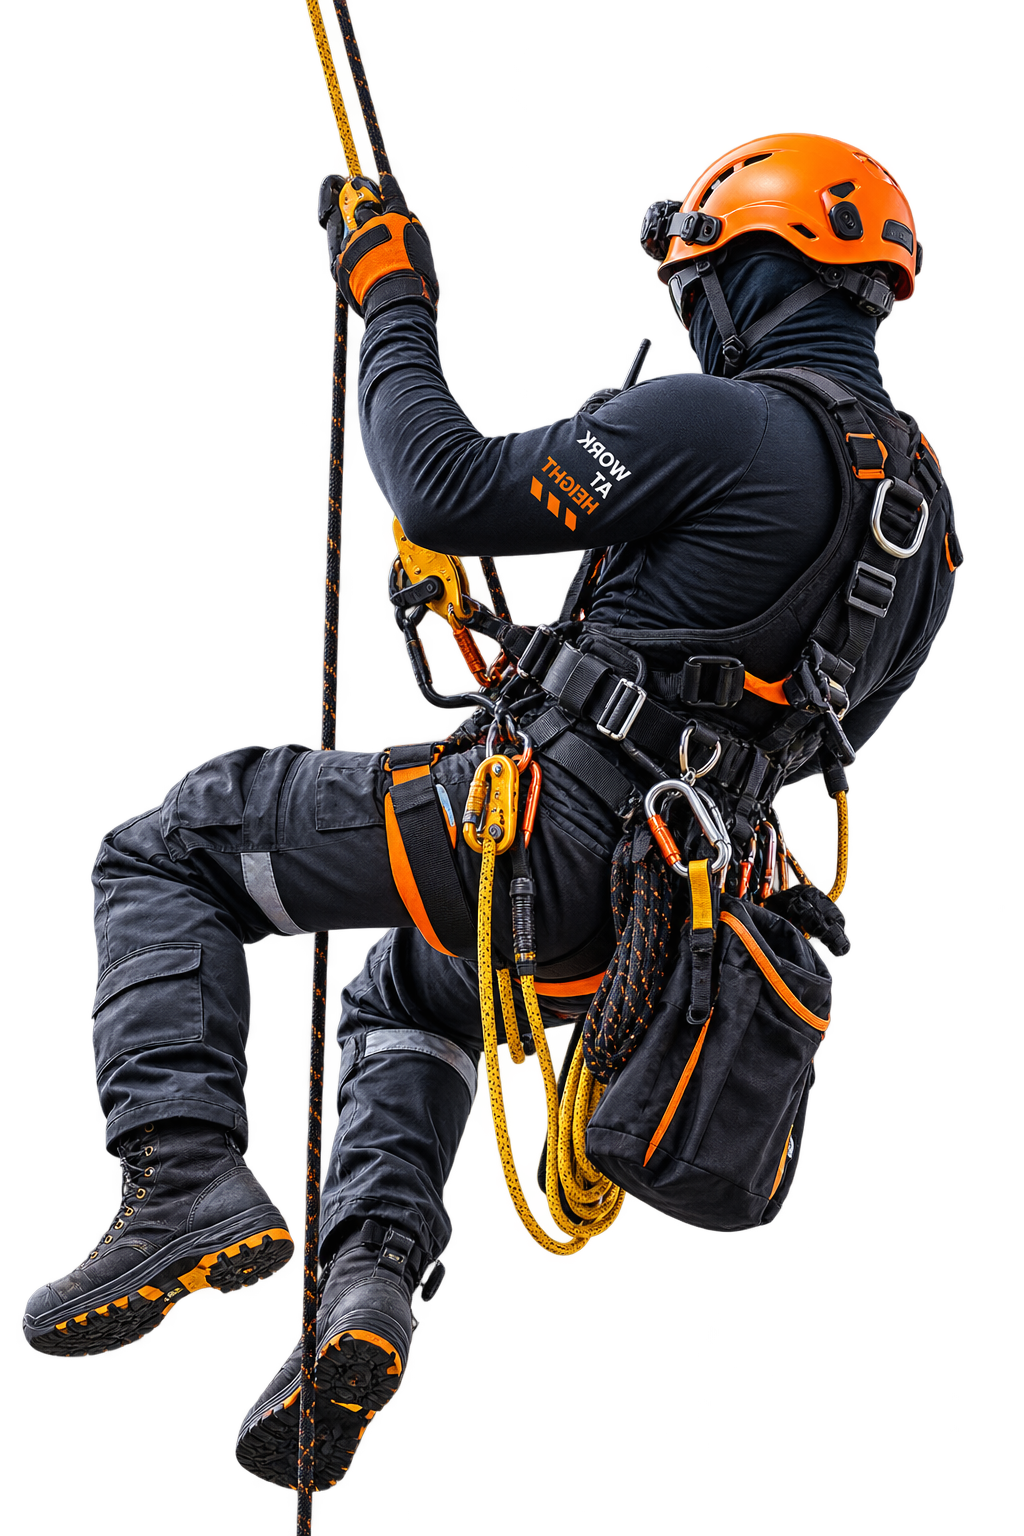
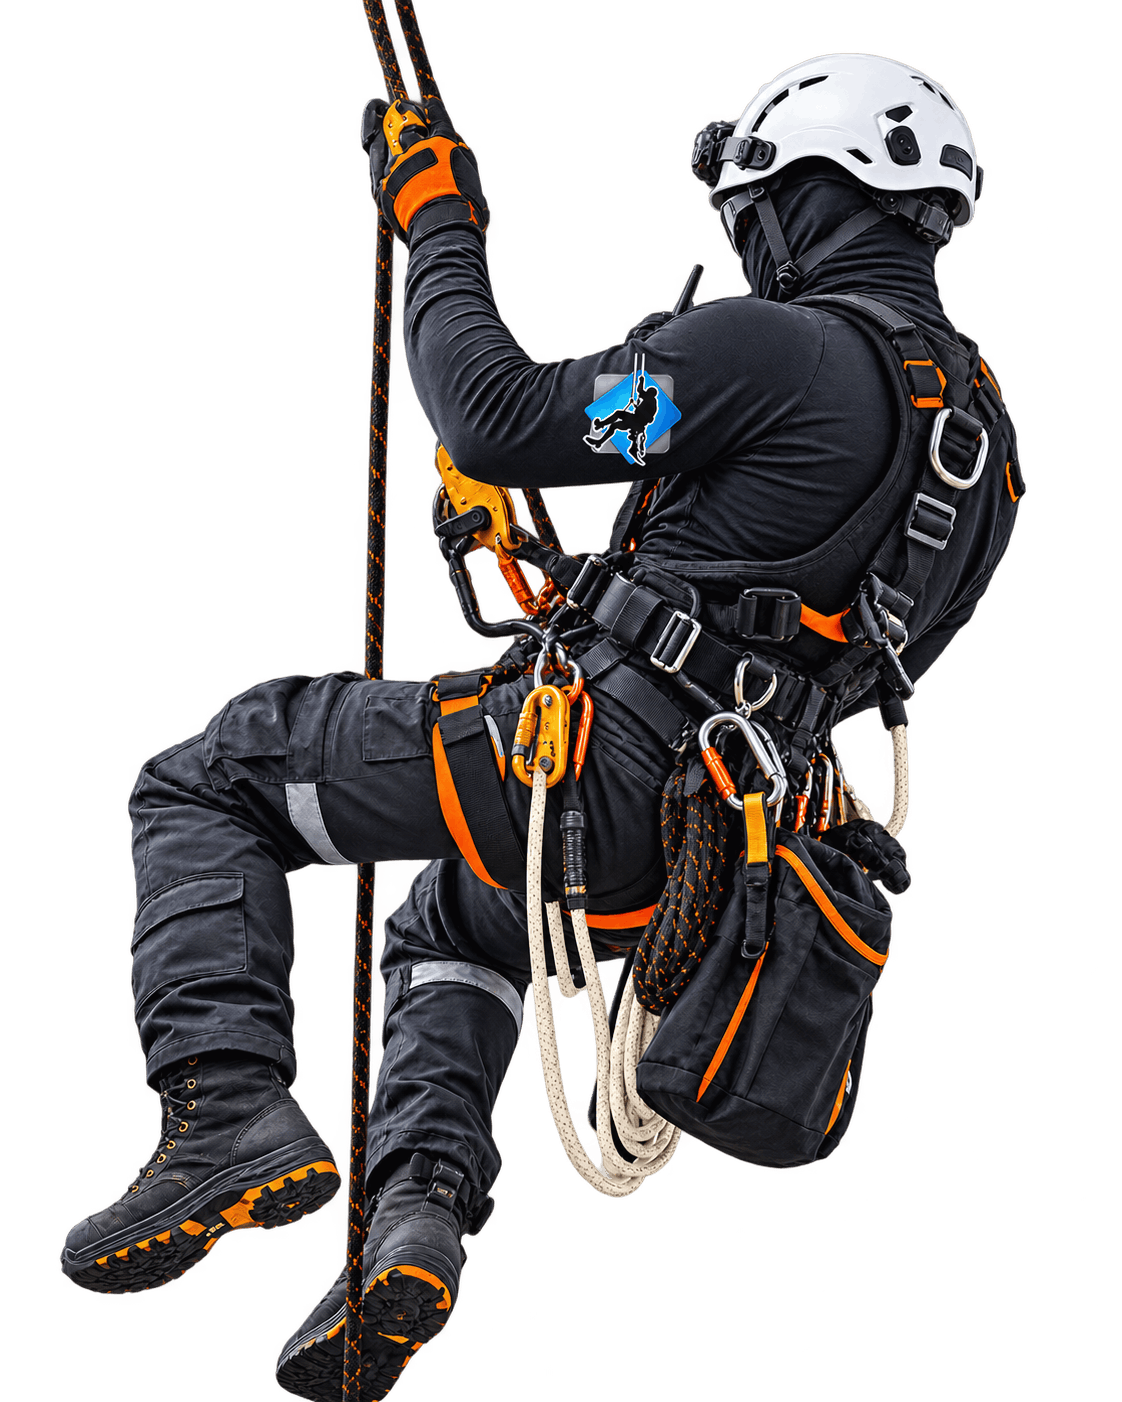
Update pre-landing rope-cutout asset and dimensions

diff --git a/web/src/components/prelanding/Prelanding.tsx b/web/src/components/prelanding/Prelanding.tsx
@@ -48,8 +48,8 @@ export function Prelanding({ site }: { site: BrandId }) {
                   className="destination-subject"
                   src={choice.image}
                   alt={choice.imageAlt}
-                  width={brand === "skyriders" ? 1024 : 1600}
-                  height={brand === "skyriders" ? 1536 : 1000}
+                  width={brand === "skyriders" ? 1122 : 1600}
+                  height={brand === "skyriders" ? 1402 : 1000}
                   sizes={brand === "skyriders" ? "(max-width: 800px) 300px, 35vw" : "(max-width: 800px) 420px, 45vw"}
                   priority
                 />

diff --git a/docs/STATUS.md b/docs/STATUS.md
@@ -1,5 +1,11 @@
 # Handoff status
 
[1 lines of base64/hex data omitted]
+
+Exact next task: Owner reviews pre-landing at http://localhost:3006/ and continues remaining landing acceptance.
+
+Earlier entries below are historical where superseded.
+
 14 October Sectors ground-up rebuild and shared palette (S03-N30): owner authorises the supplied Blueprint direction, a contained composition without its numbered rail/far-right column, six generated sector-specific settings and original showcased drones. Native photograph masks, gradients, conceptual diagrams/lines, responsive disclosures and enquiry replace the old background/text-only layout. No reference bitmap is served; all six 1536×1024 built-in outputs and original equipment art are preserved. Existing SkyIReveals supplies coordinated directional/depth/roll/staggered entries and repeated native selection, immediate focus and shared suspension/static paths. Follow-up rejects the visible central blue slab: transparent stage over shared #111b20 charcoal, exact --hero-accent #01b0fc throughout, matching surrounding section boundaries/empty space. Narrow phones use compact inline scene/explanation and full-width enquiry.
 
 Lint (zero warnings), TypeScript, isolated Next.js 16.3.8 production build and whitespace pass. 59 development records cover all six choices at nine widths, 18 final production records cover 320px/short landscape/1440px with matched palette, one-open selection, bounds and content clearance. Keyboard Enter/Space/Tab/enquiry and mobile Menu return work; normal groups settle, all six images load on selection and initial unopened scenes remain unloaded. Production SSR verifies native content/reference omission; generated/reference hashes and dimensions are recorded. Source-reviewed reduced/no-JS/hidden/failure guards are not a repeated live emulation claim: the connected browser lacks those controls. Evidence/limits: docs/design/skyi-sectors-rebuild-20261014/review.md, generation.json, asset-verification.json, development-verification.json, production-verification.json and final JPGs. No commit, deployment or real mail.

diff --git a/alpha.md b/alpha.md
@@ -7,7 +7,7 @@ Repository: tech-build26/Sky-I
 
 Build only Sky I in this independent Next.js 16.3.8 application. Keep the approved root pre-landing and enter this site's hero at /home/. Cross-brand links open the other site's root. Sky I's pre-landing is Sky I left / Skyriders right, with its own sky-bg.jpg. No runtime/code dependency on the sibling workspace.
 
-Exact next task: Ishe reviews http://localhost:3006/home/#safety and Contact for the selected audit corrections, then explicitly approves committing if satisfied. S03-L integrated acceptance remains open. Continue remaining pages separately; SMTP configuration and actual two-inbox/Reply-To verification are owner-deferred until that page work. Other audit suggestions, conversion tracking, real proof, dedicated routes, privacy/legal identity, host/proxy/runtime and release gates remain open.
+Exact next task: Owner reviews pre-landing at http://localhost:3006/ for updated technician asset and continues remaining landing acceptance. SMTP configuration and actual two-inbox/Reply-To verification are owner-deferred until remaining pages are built. Other audit suggestions, conversion tracking, real proof, dedicated routes, privacy/legal identity, host/proxy/runtime and release gates remain open.
 
 ## Foundation and separation
 
